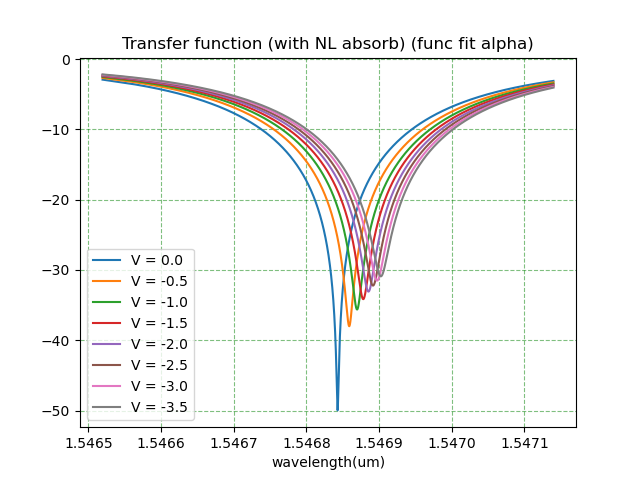
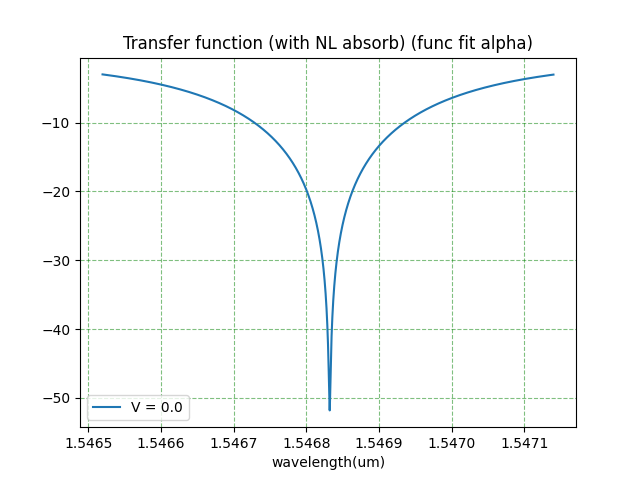
add self-heating

diff --git a/cmt_solver.py b/cmt_solver.py
@@ -87,7 +87,7 @@ def CMT_small_signal(t_bar,eqs,SPM=None,FCA=None,ring=None,sim=None,driver=None,
         (ring.tu_e_bar_total_inv + \
             ring.vg_in_cm*alpha_linear*(1 + ring.TPA_ratio/2*(sim.b0)**2*abs(b_bar)**2\
     \
-            + N_bar*1e-5/2/(ring.vg_in_cm*alpha_linear) ) )*b_bar + \
+            + N_bar*1e-5/2/(alpha_linear) ) )*b_bar + \
                 ring.input_kappa *1 + \
     \
         1j*ring.D_bar*(dlambda)*b_bar + \
@@ -101,36 +101,64 @@ def CMT_small_signal(t_bar,eqs,SPM=None,FCA=None,ring=None,sim=None,driver=None,
 
     return [ f1,f2 ,f3, dvneg_dt, dvj_dt, di2_dt]
 
-def CMT_scan_frequency(t_bar,eqs,SPM,FCA,ring,sim,driver,Heater=None):
+def CMT_scan_frequency(t_bar,eqs,SPM,TPA,FCA,T_args,ring,sim,driver,Heater=None):
     # /////////////////////////////////////////////////////////////////////////////////////////////////////////////////
     # /////////////////////////////////////////////////////////////////////////////////////////////////////////////////
     
     f_res_bar = ring.w_res(t_bar)
-    b_bar  = eqs
+    # b_bar  = eqs
+    # b_bar, N_bar ,delta_T = eqs
+    b_bar, N_bar  = eqs
     voltage = driver.v_bias
     alpha_linear = ring.alpha(voltage)
+    tu_o_bar = 1/(ring.vg_in_cm*alpha_linear)
     dlambda = ring.lambda0/ring.ng*( ring.neff(voltage) - ring.neff(0))
     
     # /////////////////////////////////////////////////////////////////////////////////////////////////////////////////
     # /////////////////////////////////////////////////////////////////////////////////////////////////////////////////
-    
+    #         + tu_o_bar*FCA/2 * abs(b_bar)**4 ) )*b_bar + \
     # 不要忘記這裡的tau_o吸收是amplitude的吸收，不是energy的
-    f1 = 1j*2*np.pi*(f_res_bar-sim.f_pround_bar + SPM*abs(b_bar)**2)*b_bar \
+
+    delta_T = (sim.b0*abs(b_bar))**2 / (T_args[1]*T_args[2]*T_args[3]) * (\
+        \
+        +ring.vg_in_cm*alpha_linear \
+        \
+        + TPA*abs(b_bar)**2 \
+        \
+        + ring.vg_in_cm * N_bar*1e-5 \
+        ) * Heater.tau_th
+    da_dt = 1j*2*np.pi*(f_res_bar-sim.f_pround_bar + SPM*abs(b_bar)**2 + \
+        \
+        (-ring.f_res_bar/ring.ng)*T_args[0]*delta_T )*b_bar \
+        \
         - (ring.tu_e_bar_total_inv + \
         \
-        ring.vg_in_cm*alpha_linear*(1 + ring.TPA_ratio/2*(sim.b0)**2*abs(b_bar)**2\
-        + FCA/2/(ring.vg_in_cm*alpha_linear) ) )*b_bar + \
+        1/tu_o_bar*( 1 + tu_o_bar*TPA/2*abs(b_bar)**2 \
+        + tu_o_bar*ring.vg_in_cm*N_bar*1e-5/2 * abs(b_bar)**4 ) )*b_bar + \
         \
         ring.input_kappa *1 + \
         \
-        1j*ring.D_bar*dlambda*b_bar +\
+        1j*ring.D_bar*dlambda*b_bar + \
         \
         1j*ring.D_bar*( ring.dlambda_dT*(Heater.T_surround-300) + (ring.HE*1e-6)*Heater.P)*b_bar
 
     # 這裡不加Q的方程式並不會影響結果
+    # N_bar = sigma_FCA*N*1e5
 
-    # f3 = -N_bar/ring.tau_eff*(t0/1e-9) + FCA*abs(b_bar)**4
-    return [ f1]
+    dN_dt = -N_bar/ring.tau_eff*(t0/1e-9) + FCA*abs(b_bar)**4
+
+    # dT_dt = (sim.b0*abs(b_bar))**2 / (T_args[1]*T_args[2]*T_args[3]) * (\
+    #     \
+    #     +ring.vg_in_cm*alpha_linear \
+    #     \
+    #     + TPA*abs(b_bar)**2 \
+    #     \
+    #     + ring.vg_in_cm * N_bar*1e-5 \
+    #     ) \
+    #     \
+    #     - t0/Heater.tau_th*delta_T
+    # return [ da_dt,dN_dt,dT_dt ]
+    return [ da_dt,dN_dt]
 
 # DeFine Solving process My Different simulation modes
 def CMT_voltage_driving(sim,ring, 
@@ -225,23 +253,34 @@ def solve_scan_frequency(sim,ring,
                         driver,
                         time,
                         Heater):
-    SPM = ring.dw_SPM_coeff *(sim.b0)**2
-    # FCA = ring.FCA_coeff/(ring.tau_eff*1e-9)*1e5*t0*(sim.b0)**4
-    FCA = ring.FCA_coeff*t0*(sim.b0)**4
+    
+    # 非線性吸收項記得乘以vg
+    SPM = ring.df_SPM_coeff *(sim.b0)**2
+    # FCA項因為還要算dN_dt，所以先不用乘以vg
+    FCA = ring.FCA_coeff/(ring.tau_eff*1e-9)*1e5*t0*(sim.b0)**4
+    # FCA = ring.FCA_coeff*t0*(sim.b0)**4
+    TPA = ring.TPA_coeff*t0*(sim.b0)**2 * ring.vg_in_cm
+    Aeff = 0.204 #um^2
+    Veff = Aeff*ring.L #um^3
+    ro_si = 2.329e-12 # g/um^3
+    cSi = 0.713*1000 # mJ/(g*K)
+    kappa_theta = 1.86e-4 # 1/K
+    T_args = [kappa_theta, ro_si, cSi, Veff]
     b_init = 0+1j*0
-    # N_init = 0
+    N_init = 0
+    delta_T_init = 0
     sol = solve_ivp(CMT_scan_frequency ,
                     [0,time.t_max+time.buffer], 
-                    [b_init],
+                    [b_init, N_init],
                     method=sim.algorithm,
                     t_eval = time.t_total,atol = atol,rtol = rtol,
-                    args=(SPM,FCA,ring,sim,driver,Heater))
+                    args=(SPM,TPA,FCA,T_args,ring,sim,driver,Heater))
     b_bar = sol.y[0]
-    # N_bar = sol.y[1]
+    N_bar = sol.y[1]
     s_minus_bar = (1-ring.input_kappa*b_bar)
 
-    # return b_bar*sim.b0, s_minus_bar*sim.S0    ,N_bar/(ring.sigma_FCA*1e-17)*1e-5
-    return b_bar*sim.b0, s_minus_bar*sim.S0
+    return b_bar*sim.b0, s_minus_bar*sim.S0    ,N_bar/(ring.sigma_FCA*1e-17)*1e-5
+    # return b_bar*sim.b0, s_minus_bar*sim.S0
 
 def solving(sim,
             ring, 
@@ -267,8 +306,8 @@ def solving(sim,
     solver = partial(mode_dict[sim.mode],sim,ring,driver,time,Heater)
     
     if sim.mode == "scan_frequency":
-        b,  s_minus = solver()
-        return b,  s_minus
+        b,  s_minus ,N = solver()
+        return b,  s_minus,N
     else:
         b, Q, s_minus, N, vneg, vj, i2 = solver()
         return b, Q, s_minus   ,N, vneg, vj, i2

diff --git a/ring.py b/ring.py
@@ -20,7 +20,7 @@ class ring(simulation):
                  ng = None,
                  FSR_shift = 0,
                  beta_TPA = 5,  #1e-13 (cm/mW)
-                 tau_eff = 20,  # ns
+                 tau_eff = 0.03,  # ns
                  sigma_FCA = 1.04,  #1e-17 cm^2
                  eta_h = 2.99,
                  HE = 254.3,
@@ -78,14 +78,13 @@ class ring(simulation):
             self.lambda0_reference = lambda0
         if FSR==None:
             self.ng = ng
-            self.vg = c/self.ng*t0
+            self.vg = c/self.ng*t0  #um/ps
         elif ng==None:
             self.FSR = FSR
             self.ng = self.lambda0_reference**2/(self.FSR*self.L)
-            self.vg = c/self.ng*t0
+            self.vg = c/self.ng*t0  #um/ps
         else:
             assert False, "\nDo not specify FSR and ng at the same time \nYou have to specify one of them.\n"
-        
         if (lambda0==None):
             self.FSR_shift = FSR_shift
             self.f_res_bar = self.find_accurate_res_frequency(m)
@@ -159,7 +158,7 @@ class ring(simulation):
         self.TPA_coeff = self.TPA_coeff / ( 10**(np.log10(self.TPA_coeff)//1) )
         self.TPA_coeff = self.TPA_coeff*10**( self.TPA_coeff_order)
         self.TPA_coeff = self.TPA_coeff*self.TPA_fit_factor
-        self.TPA_ratio = self.TPA_coeff/self.alpha_linear
+        # self.TPA_ratio = self.TPA_coeff*self.tu_o_bar
         # Note. The unit TPA_coeff here is  1/(cm*mJ), not 1/cm
      
         self.FCA_coeff = self.beta_TPA*self.tau_eff*self.sigma_FCA/ \
@@ -168,13 +167,13 @@ class ring(simulation):
         self.FCA_coeff = self.FCA_coeff / ( 10**(np.log10(self.FCA_coeff)//1) )
         self.FCA_coeff = self.FCA_coeff * 10**(self.FCA_coeff_order)
         self.FCA_coeff = self.FCA_coeff*self.FCA_fit_factor
-        self.FCA_ratio = self.FCA_coeff/self.alpha_linear
+        # self.FCA_ratio = self.FCA_coeff*self.tu_o_bar
         # Note. The unit FCA_coeff here is  1/(cm*mJ^2), not 1/cm
 
         # Self Phase Modulation
         self.n2 = 5.6e-9 #um^2/mW
-        dn_SPM = self.n2/(self.round_trip_time*(1e-12)*self.cross_section)
-        self.dw_SPM_coeff = -dn_SPM*2*np.pi*self.f_res_bar/self.ng  #rad/(ps*mJ)
+        dn_SPM = self.n2/(self.round_trip_time*(t0)*self.cross_section)
+        self.df_SPM_coeff = -dn_SPM*self.f_res_bar/self.ng  # 1/(ps*mJ)
 
     def w_res(self,t):
         """

diff --git a/eye_test.py b/eye_test.py
@@ -14,7 +14,7 @@ from Heater import Heater
 mode = "scan_frequency"
 # mode = "voltage_drive"
 wl_in = 1.54685
-Pin = 1 #mW
+Pin = 10 #mW
 FSR = 0.0195
 radius = 5
 Amp_RoundTripLoss_pdk = [0.95124, 0.95248, 0.95273, 0.95292, 0.95305]
@@ -73,16 +73,16 @@ t = time(mode = sim.mode)
 if sim.mode == "scan_frequency":
     vbias = np.array([v_bias+vpp/2,v_bias,v_bias-vpp/2])
     # vbias = np.array([1,0.5,0.25,0,-0.5,-1,-1.5,-2])
-    vbias = np.arange(0,-4,-0.5)
+    vbias = np.arange(0,-0.5,-0.5)
     ring_mod.scan_frequency(wl_min ,wl_max,t)
-    t.main(ring_mod,t_max=5000,resolution=1,buffer=100,driver=v)
+    t.main(ring_mod,t_max=10000,resolution=1,buffer=100,driver=v)
     wl_scan =  c/ring_mod.w_res(t.t_total)*t0
     sim.save_data(ring_mod,t,v)
     T_record = np.zeros( (int(len(t.t_total)-t.buffer*t0/t.dt-1),len(vbias)))
     plt.figure()
     for vb in vbias:
         v.v_bias = vb
-        b,s_minus = solving(sim,ring_mod,v,t,H)
+        b,s_minus,N = solving(sim,ring_mod,v,t,H)
         T = Transfer_function(ring_mod,t)
         wl,data = T.mapping(10*np.log10(abs(s_minus)**2/sim.Pin))
         wl,data_phase = T.mapping(180/np.pi*np.angle(s_minus))
@@ -100,6 +100,7 @@ if sim.mode == "scan_frequency":
         plt.title('Transfer function (no NL absorb) (func fit alpha)')
         plt.savefig("Transmission_vs_voltage (no NL) (func fit alpha)")
     plt.show()
+    ploting(t.t_total,N,x_label="time (ps)",title="Free Carrier Concentration (cm^-3)")
     # highlevel_arg = int(np.argwhere(vbias==v_bias+vpp/2))
     # lowlevel_arg = int(np.argwhere(vbias==v_bias-vpp/2))
     # Extinction_ratio = ER(t,dB_inv(T_record[:,lowlevel_arg]),dB_inv(T_record[:,highlevel_arg]))

diff --git a/Heater.py b/Heater.py
@@ -5,10 +5,13 @@ class Heater:
     id = "Heater"
     def __init__(self,T_surround,
                  V,
-                 R):
+                 R,
+                 tau_th = 100, #ns 
+                 ):
         self.V = V
         self.R = R
         self.T_surround = T_surround
+        self.tau_th = tau_th*1e-9
         self.renew()
 
     def renew(self):
